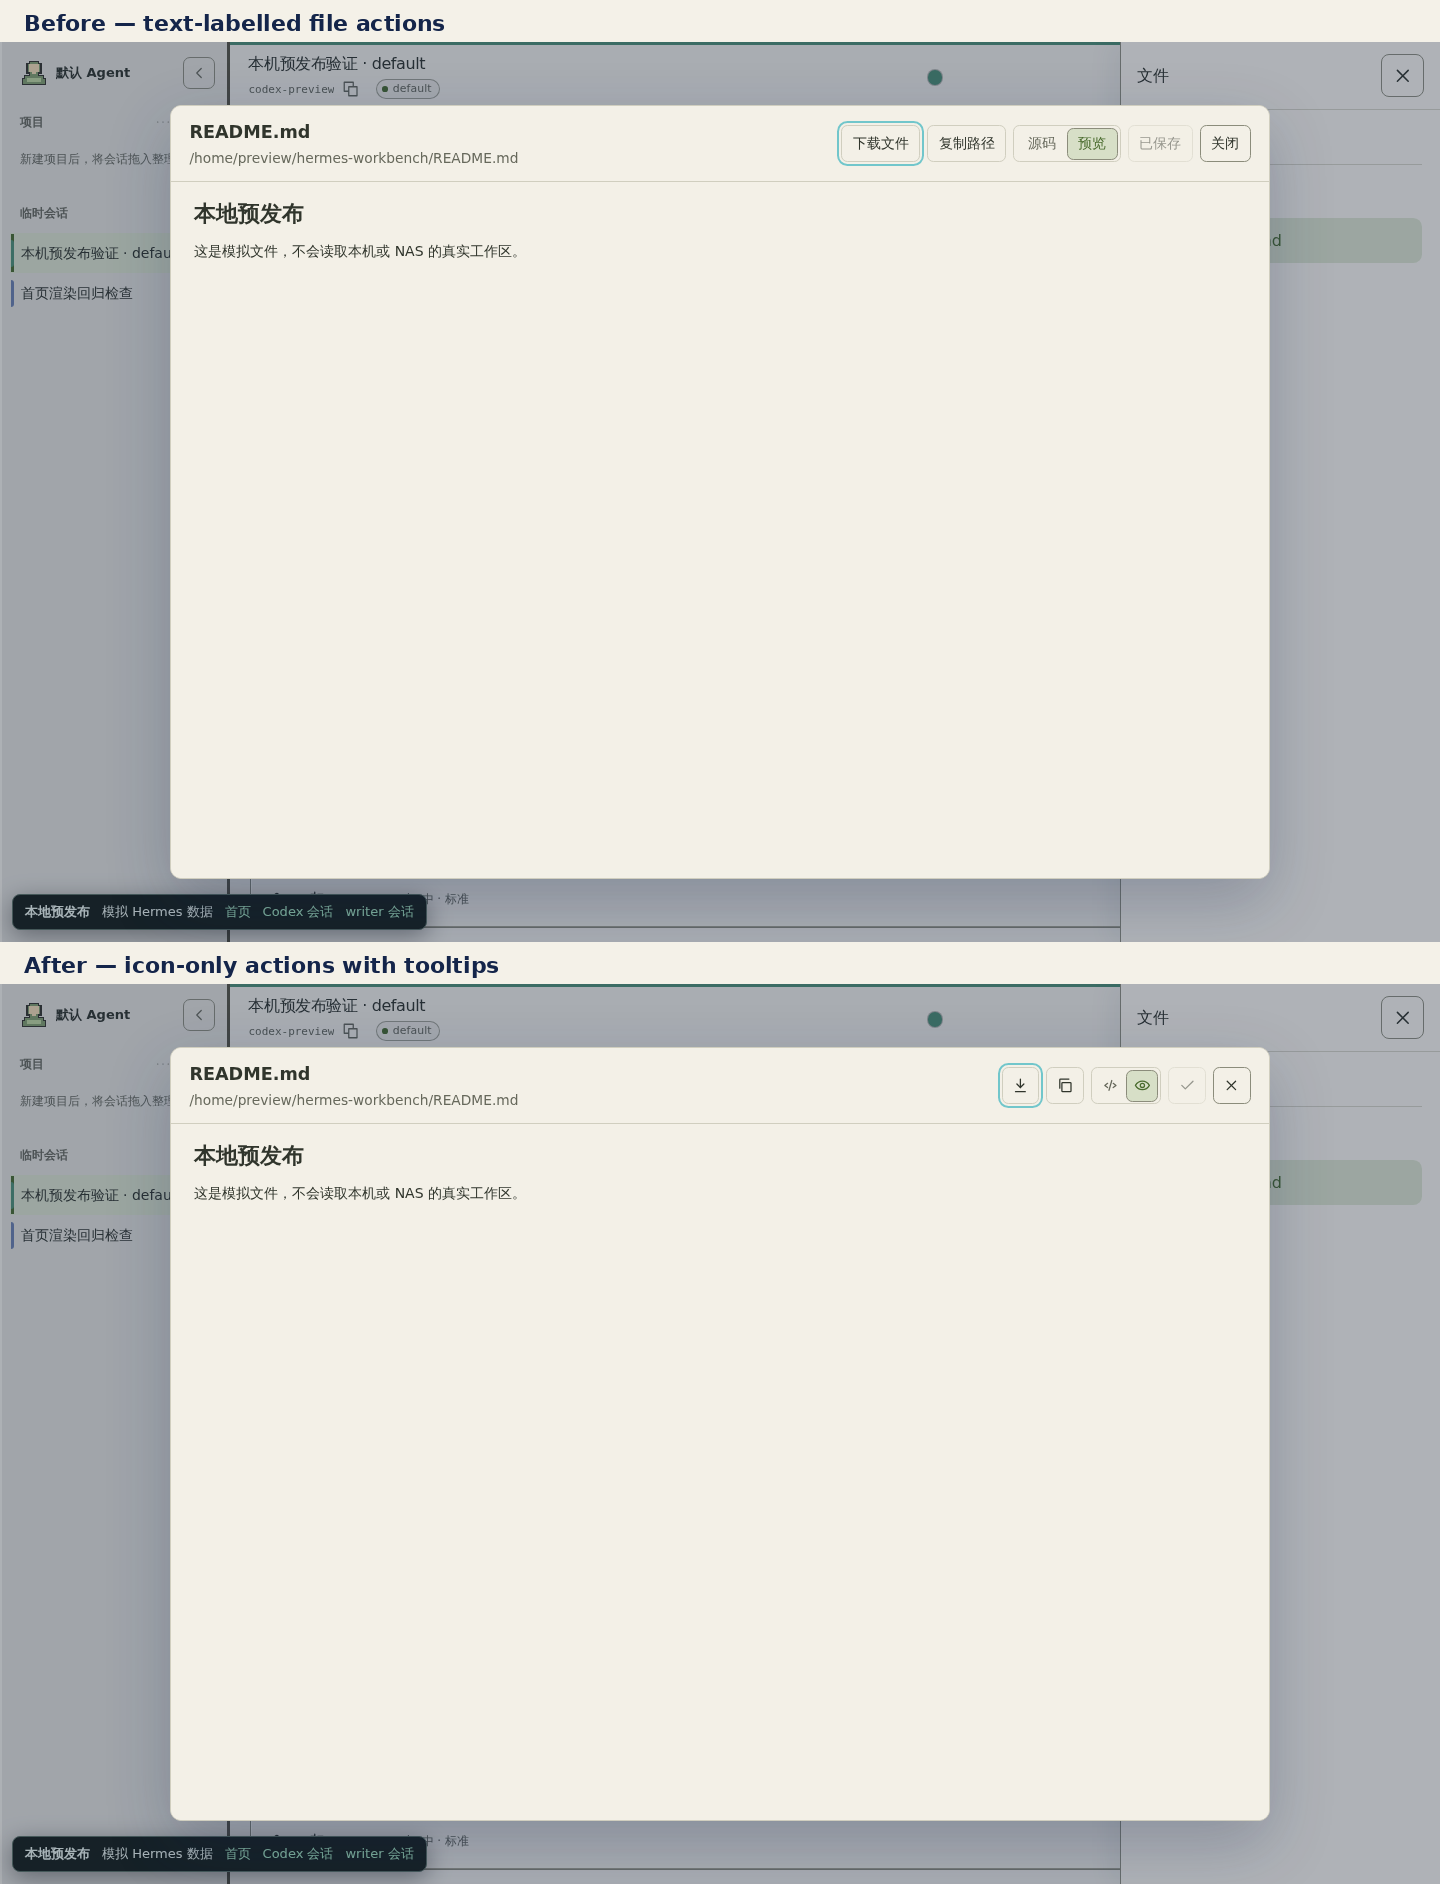
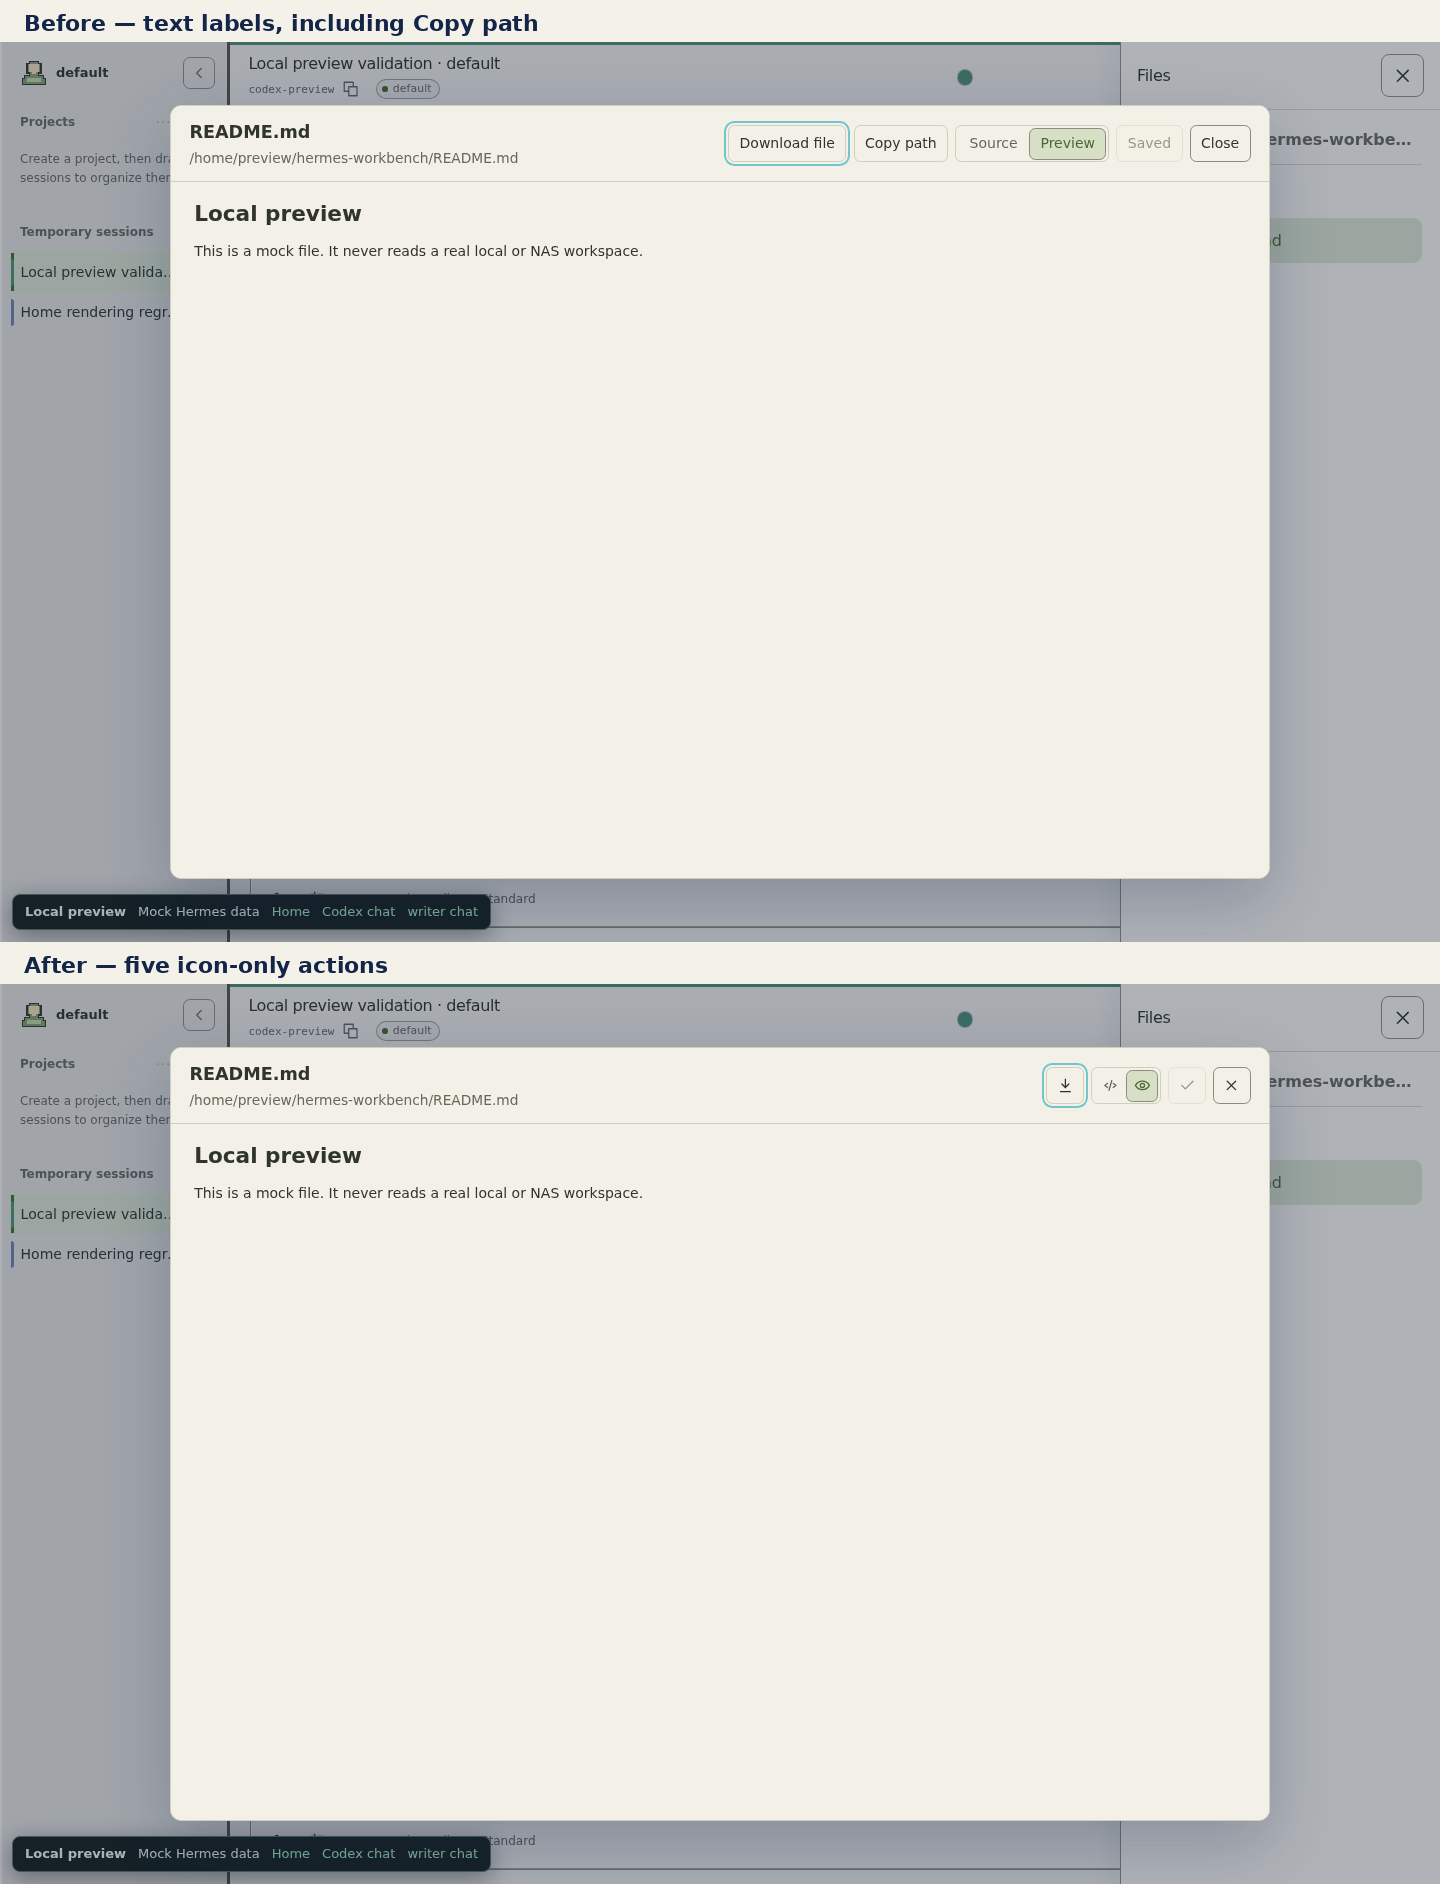
Remove copy path action and localize mock preview in English

diff --git a/dashboard/src/recovered-runtime.js b/dashboard/src/recovered-runtime.js
@@ -7950,25 +7950,6 @@ import { createProjectNavigation, PANE_DRAG_TYPE } from './project-navigation';
                 },
                 workspaceActionIcon(t, "M12 3v12", "m7 10 5 5 5-5", "M5 21h14"),
               ),
-              pe(
-                t,
-                "button",
-                {
-                  type: "button",
-                  className: "hti-workspace-copy-path",
-                  title: runtimeText("复制路径", "Copy path"),
-                  "aria-label": runtimeText("复制路径", "Copy path"),
-                  onClick: async () => {
-                    try { await navigator.clipboard.writeText(workspaceAbsolutePath(d.path, O)); M(runtimeText("路径已复制", "Path copied")); }
-                    catch (error) { M(runtimeText(`复制失败：${String(error)}`, `Copy failed: ${String(error)}`)); }
-                  },
-                },
-                workspaceActionIcon(
-                  t,
-                  "M8 8h11a1 1 0 0 1 1 1v11a1 1 0 0 1-1 1H8a1 1 0 0 1-1-1V9a1 1 0 0 1 1-1Z",
-                  "M4 16V4a1 1 0 0 1 1-1h12",
-                ),
-              ),
               Lo(O)
                 ? pe(
                     t,
@@ -8227,25 +8208,6 @@ import { createProjectNavigation, PANE_DRAG_TYPE } from './project-navigation';
                   },
                 },
                 workspaceActionIcon(t, "M12 3v12", "m7 10 5 5 5-5", "M5 21h14"),
-              ),
-              pe(
-                t,
-                "button",
-                {
-                  type: "button",
-                  className: "hti-workspace-copy-path",
-                  title: runtimeText("复制路径", "Copy path"),
-                  "aria-label": runtimeText("复制路径", "Copy path"),
-                  onClick: async () => {
-                    try { await navigator.clipboard.writeText(workspaceAbsolutePath(d.path, O)); M(runtimeText("路径已复制", "Path copied")); }
-                    catch (error) { M(runtimeText(`复制失败：${String(error)}`, `Copy failed: ${String(error)}`)); }
-                  },
-                },
-                workspaceActionIcon(
-                  t,
-                  "M8 8h11a1 1 0 0 1 1 1v11a1 1 0 0 1-1 1H8a1 1 0 0 1-1-1V9a1 1 0 0 1 1-1Z",
-                  "M4 16V4a1 1 0 0 1 1-1h12",
-                ),
               ),
                         Lo(O)
                           ? pe(

diff --git a/dashboard/src/recovered-runtime.css b/dashboard/src/recovered-runtime.css
@@ -7152,7 +7152,6 @@ dialog.hti-codex-file-modal a:focus-visible {
 .hti-codex-file-modal-tabs button,
 .hti-codex-file-modal-save,
 .hti-workspace-download,
-.hti-workspace-copy-path,
 .hti-codex-file-modal-close {
   min-height: 2.35rem;
   border: 1px solid var(--mc-line-soft, #d8e4f1);
